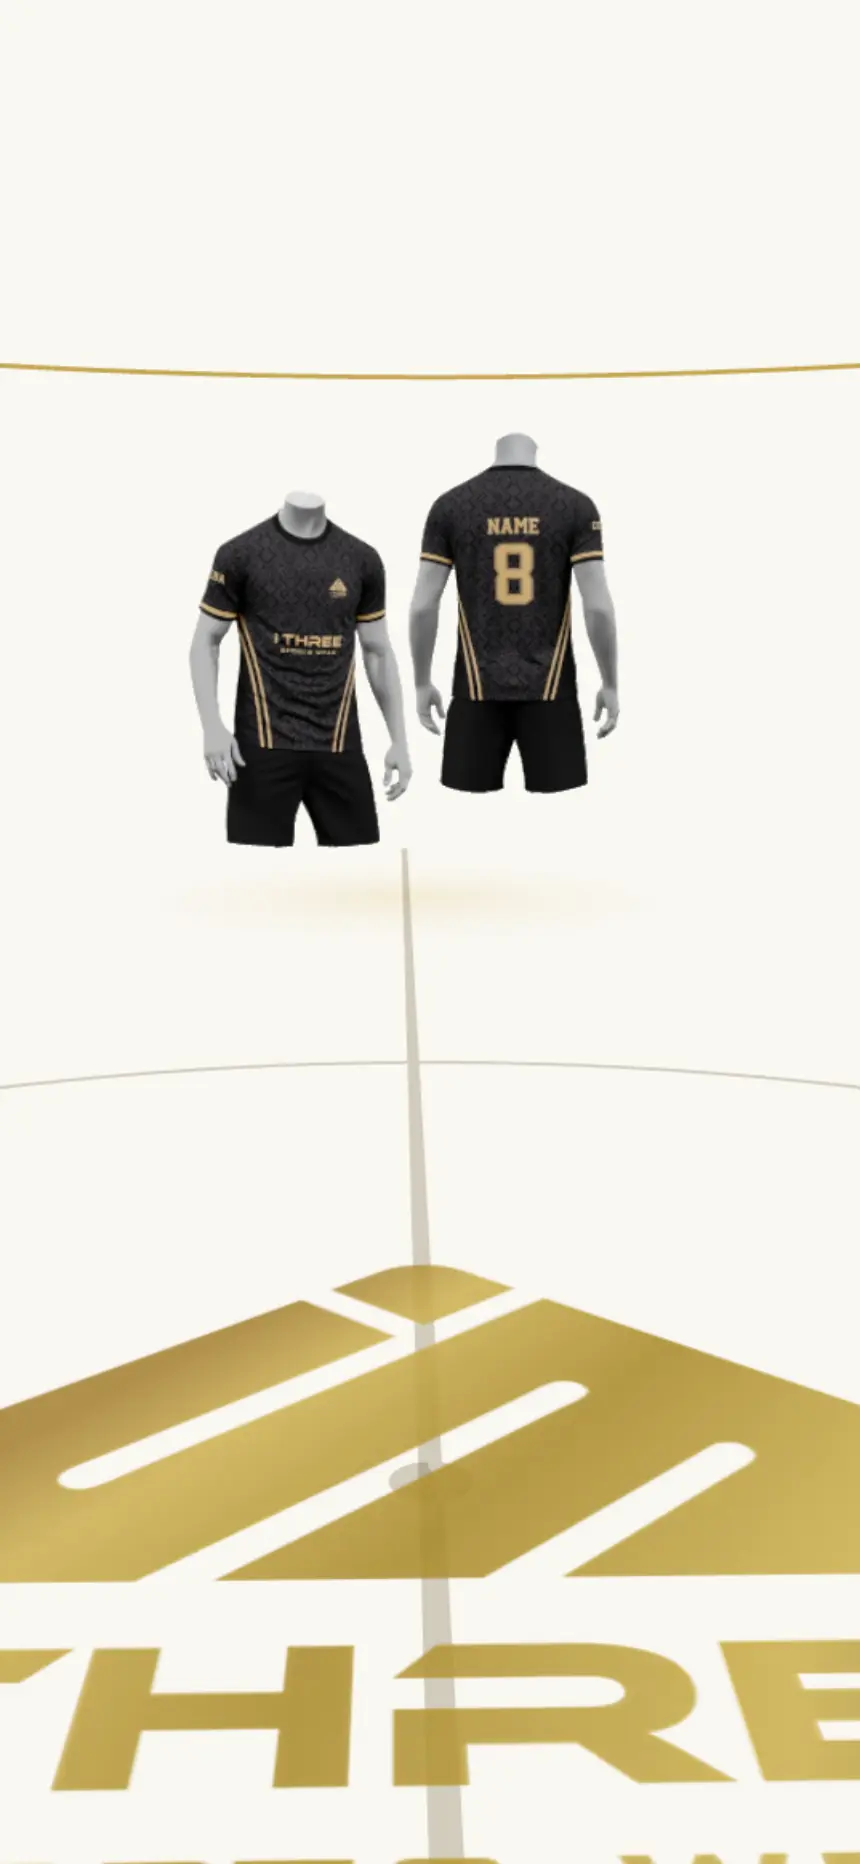
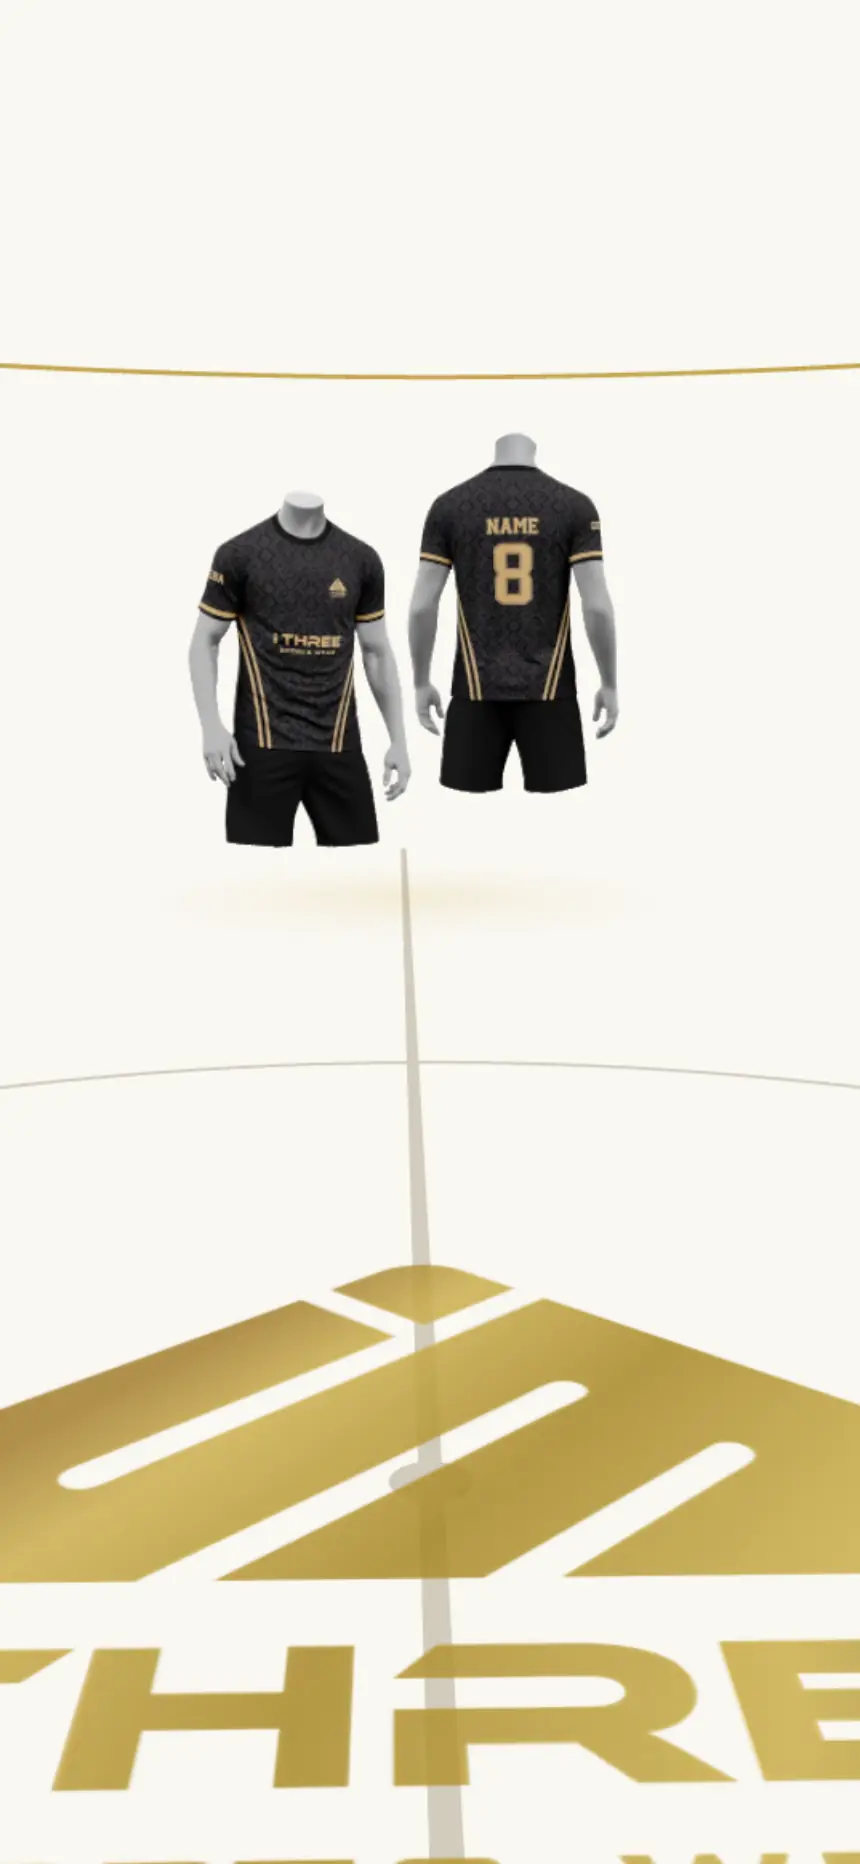
Separate theme buttons, brighter light hero, richer light CTA and story
- Header: separate moon and sun buttons; the active theme is filled gold.
  On phones under 390px the quote button reads QUOTE so everything fits.
- Light hero: fog only softens the far floor, so kit colours stay vivid; a
  short light fade at the foot replaces the dark-theme scrim, and the scroll
  dim is lighter. Light stand-in stills re-captured.
- Light Our Story: fanned kit cards that spread on scroll, an outlined gold
  11 and a warm glow.
- Light final CTA: two rows of kit cards gliding in opposite directions
  (pause on hover), on every screen size.

Claude-Session: https://claude.ai/code/session_01TzgDj8wnAxPH7NWvhhgYKc

diff --git a/i3sportswear/components/Identity.tsx b/i3sportswear/components/Identity.tsx
@@ -11,6 +11,7 @@ const beats = ["It’s colours.", "It’s a crest.", "It’s a number.", "It’s
 /**
  * 07: Team identity (Our story). A close-up frame from the master film,
  * slowly pushing in, while each line of the manifesto lights up in turn.
+ * Light theme: fanned kit cards and an outlined gold "11" replace the dark still.
  */
 export default function Identity() {
   const root = useRef<HTMLElement>(null);
@@ -28,6 +29,19 @@ export default function Identity() {
           "[data-identity-media]",
           { scale: 1.12 },
           { scale: 1, ease: "none", scrollTrigger: { trigger: root.current, start: "top bottom", end: "bottom top", scrub: true } },
+        );
+        // Light theme: the fanned kits spread and rise, the outline numeral drifts.
+        gsap.utils.toArray<HTMLElement>("[data-fan-kit]").forEach((kit, i) => {
+          gsap.fromTo(
+            kit,
+            { y: 70, x: (i - 1) * -24 },
+            { y: -10 * i, x: (i - 1) * 14, ease: "none", scrollTrigger: { trigger: root.current, start: "top bottom", end: "bottom 40%", scrub: true } },
+          );
+        });
+        gsap.fromTo(
+          "[data-identity-numeral]",
+          { yPercent: 12 },
+          { yPercent: -6, ease: "none", scrollTrigger: { trigger: root.current, start: "top bottom", end: "bottom top", scrub: true } },
         );
         gsap.utils.toArray<HTMLElement>("[data-beat]").forEach((beat) => {
           gsap.fromTo(
@@ -58,11 +72,19 @@ export default function Identity() {
           aria-hidden
           className="absolute inset-0 bg-[linear-gradient(to_right,var(--color-ink)_8%,color-mix(in_srgb,var(--color-ink)_75%,transparent)_45%,color-mix(in_srgb,var(--color-ink)_25%,transparent)_100%),linear-gradient(to_bottom,var(--color-ink),transparent_20%,transparent_80%,var(--color-ink))]"
         />
-        {/* Light theme: the film still is a dark studio, so show a light kit instead,
-            above the fade so it stays crisp. */}
-        <div className="absolute bottom-[7%] left-[var(--gutter)] hidden h-[34%] w-[40%] lg:light:block">
-          <Image src={jerseySrc("coral-teal")} alt="" fill sizes="42vw" className="object-contain object-left-bottom drop-shadow-[0_30px_30px_var(--product-shadow)]" />
-        </div>
+        {/* Light theme backdrop: a warm gold glow and an outlined "11" in place of
+            the dark film still. */}
+        <div
+          aria-hidden
+          className="absolute inset-0 hidden bg-[radial-gradient(55%_50%_at_18%_78%,color-mix(in_srgb,var(--color-gold)_14%,transparent),transparent_70%),radial-gradient(40%_45%_at_88%_20%,color-mix(in_srgb,var(--color-gold)_8%,transparent),transparent_70%)] light:block"
+        />
+        <span
+          aria-hidden
+          data-identity-numeral
+          className="pointer-events-none absolute -right-[3vw] -bottom-[8vw] hidden font-display text-[62vw] leading-none font-semibold tracking-[-0.06em] text-transparent opacity-50 select-none [-webkit-text-stroke:1.5px_var(--color-gold)] light:block lg:-bottom-[5vw] lg:text-[34vw]"
+        >
+          11
+        </span>
       </div>
 
       <div className="shell relative grid gap-16 py-32 lg:grid-cols-12 lg:py-48">
@@ -74,6 +96,9 @@ export default function Identity() {
               outer="js-hidden-line"
             />
           </h2>
+          <div className="hidden light:block">
+            <KitFan />
+          </div>
         </div>
         <ul className="flex flex-col gap-3 self-end lg:col-span-5 lg:col-start-8 lg:pt-[30vh]">
           {beats.map((b, i) => (
@@ -88,5 +113,32 @@ export default function Identity() {
         </ul>
       </div>
     </section>
+  );
+}
+
+// Three kits fanned like cards: one team's squad, three sports.
+const fan = [
+  { slug: "sky-brush", left: "0%", rotate: -7, z: 1 },
+  { slug: "coral-teal", left: "23%", rotate: 0, z: 3 },
+  { slug: "yellow-circuit", left: "46%", rotate: 6, z: 2 },
+];
+
+/** Light theme only: kit cards that drift apart as the section scrolls. */
+function KitFan() {
+  return (
+    <div aria-hidden className="relative mt-14 aspect-[2.15/1] w-full max-w-[680px] lg:mt-20">
+      {fan.map((k) => (
+        <div
+          key={k.slug}
+          data-fan-kit
+          className="absolute bottom-0 aspect-[5/4] w-[54%] will-change-transform"
+          style={{ left: k.left, zIndex: k.z, rotate: `${k.rotate}deg` }}
+        >
+          <div className="relative h-full w-full bg-[var(--stage)] shadow-[0_30px_60px_-24px_var(--product-shadow)] ring-1 ring-bone/[0.07]">
+            <Image src={jerseySrc(k.slug)} alt="" fill sizes="(min-width: 1024px) 18vw, 45vw" className="object-contain p-[7%]" />
+          </div>
+        </div>
+      ))}
+    </div>
   );
 }

diff --git a/i3sportswear/components/Closing.tsx b/i3sportswear/components/Closing.tsx
@@ -1,13 +1,16 @@
 "use client";
 
 import Image from "next/image";
-import { jerseySrc } from "@/lib/products";
+import { jerseySrc, jerseys } from "@/lib/products";
 import { useRef } from "react";
 import { Button, Lines, Logo, Mark } from "./ui";
 import { contactHref, nav, site } from "@/lib/site";
 import { MQ, gsap, useGSAP } from "@/lib/gsap";
 
-/** Final CTA. The jersey wall from the master film, held in deep shadow. */
+/**
+ * Final CTA. Dark: the jersey wall from the master film, held in deep shadow.
+ * Light: a moving wall of the kits themselves.
+ */
 export function FinalCta() {
   const root = useRef<HTMLElement>(null);
 
@@ -42,22 +45,23 @@ export function FinalCta() {
   const talk = contactHref("Hi iTHREE, I'd like to talk about a team kit.");
 
   return (
-    <section id="quote" ref={root} aria-labelledby="cta-title" className="relative flex min-h-[100svh] items-center overflow-hidden bg-ink">
+    <section id="quote" ref={root} aria-labelledby="cta-title" className="relative flex min-h-[100svh] flex-col justify-center overflow-hidden bg-ink">
       <div className="absolute inset-0">
         <div data-cta-media className="absolute inset-0 will-change-transform">
           <Image src="/images/stills/wall" alt="" fill sizes="100vw" className="object-cover object-[80%_50%] opacity-55 light:hidden" />
-          {/* Light theme: a light kit in place of the dark film still. */}
-          <div className="absolute inset-y-[14%] right-[4%] hidden w-full light:block lg:w-[52%]">
-            <Image src={jerseySrc("sky-brush")} alt="" fill sizes="(min-width: 1024px) 52vw, 100vw" className="object-contain object-right opacity-25 lg:opacity-100" />
-          </div>
         </div>
         <div
           aria-hidden
-          className="absolute inset-0 bg-[linear-gradient(to_right,var(--color-ink)_15%,color-mix(in_srgb,var(--color-ink)_60%,transparent)_55%,color-mix(in_srgb,var(--color-ink)_20%,transparent)),linear-gradient(to_bottom,var(--color-ink),transparent_25%,transparent_75%,var(--color-ink))]"
+          className="absolute inset-0 bg-[linear-gradient(to_right,var(--color-ink)_15%,color-mix(in_srgb,var(--color-ink)_60%,transparent)_55%,color-mix(in_srgb,var(--color-ink)_20%,transparent)),linear-gradient(to_bottom,var(--color-ink),transparent_25%,transparent_75%,var(--color-ink))] light:hidden"
+        />
+        {/* Light theme: a warm glow and a moving wall of kits in place of the dark film still. */}
+        <div
+          aria-hidden
+          className="absolute inset-0 hidden bg-[radial-gradient(50%_60%_at_12%_35%,color-mix(in_srgb,var(--color-gold)_14%,transparent),transparent_70%)] light:block"
         />
       </div>
 
-      <div className="shell relative py-32">
+      <div className="shell relative py-32 light:pb-12 lg:light:pb-16">
         <p className="eyebrow flex items-center gap-3 text-faint">
           <Mark /> Get a quote
         </p>
@@ -78,7 +82,45 @@ export function FinalCta() {
           </a>
         )}
       </div>
+
+      <div className="relative hidden w-full pb-24 light:block">
+        <KitRows />
+      </div>
     </section>
+  );
+}
+
+// Every clean cut-out kit, split into two runs for the moving wall.
+const wallKits = jerseys.filter((j) => !j.backdrop);
+const runs = [wallKits.filter((_, i) => i % 2 === 0), wallKits.filter((_, i) => i % 2 === 1)];
+
+function KitCard({ slug }: { slug: string }) {
+  return (
+    <div className="relative mr-4 aspect-[5/4] w-[44vw] max-w-[260px] shrink-0 bg-[var(--stage)] shadow-[0_24px_48px_-24px_var(--product-shadow)] ring-1 ring-bone/[0.07] lg:mr-5 lg:w-[clamp(200px,17vw,280px)] lg:max-w-none">
+      <Image src={jerseySrc(slug)} alt="" fill sizes="(min-width: 1024px) 17vw, 44vw" className="object-contain p-[7%]" />
+    </div>
+  );
+}
+
+/** Light theme: two rows of kits sliding in opposite directions (pause on hover). */
+function KitRows() {
+  return (
+    <div aria-hidden className="group flex flex-col gap-4 [mask-image:linear-gradient(to_right,transparent,#000_8%,#000_92%,transparent)] lg:gap-5">
+      {runs.map((run, r) => (
+        <div key={r} className="overflow-hidden">
+          {/* Two copies and a margin (not gap) per card, so -50% loops seamlessly. */}
+          <div
+            className={`flex w-max group-hover:[animation-play-state:paused] ${
+              r === 0 ? "animate-[marquee_48s_linear_infinite]" : "animate-[marquee_54s_linear_infinite_reverse]"
+            }`}
+          >
+            {[...run, ...run].map((j, i) => (
+              <KitCard key={`${j.slug}-${i}`} slug={j.slug} />
+            ))}
+          </div>
+        </div>
+      ))}
+    </div>
   );
 }
 

diff --git a/i3sportswear/components/Nav.tsx b/i3sportswear/components/Nav.tsx
@@ -99,7 +99,7 @@ export default function Nav() {
           <div className="relative z-10 flex items-center gap-2 sm:gap-3">
             <ThemeSwitch theme={theme} />
             <Button href="#quote" variant="outline" size="sm" className="px-3! xs:px-4! sm:px-5!">
-              Get a quote
+              <span className="max-[389px]:hidden">Get a&nbsp;</span>quote
             </Button>
             <button
               ref={menuButton}
@@ -176,30 +176,33 @@ export default function Nav() {
   );
 }
 
-/** Dark / light switch: both icons visible, a sliding thumb marks the active one. */
+/** Two separate theme buttons, moon for dark and sun for light; the active one is filled gold. */
 function ThemeSwitch({ theme }: { theme: "dark" | "light" }) {
-  const light = theme === "light";
+  const options = [
+    { value: "dark", label: "Dark theme", Icon: Moon },
+    { value: "light", label: "Light theme", Icon: Sun },
+  ] as const;
   return (
-    <button
-      type="button"
-      role="switch"
-      aria-checked={light}
-      aria-label="Light theme"
-      title={light ? "Switch to dark theme" : "Switch to light theme"}
-      onClick={() => setTheme(light ? "dark" : "light")}
-      className="group relative flex h-11 items-center"
-    >
-      <span className="relative flex h-8 w-[3.25rem] items-center justify-between rounded-full px-[6px] xs:w-[3.75rem] xs:px-[7px] ring-1 ring-bone/25 transition-colors group-hover:ring-bone/50">
-        <span
-          aria-hidden
-          className={`absolute top-1 left-1 h-6 w-6 rounded-full bg-gold-soft transition-transform duration-500 ease-[var(--ease-out-expo)] ${
-            light ? "translate-x-[1.25rem] xs:translate-x-[1.75rem]" : "translate-x-0"
-          }`}
-        />
-        <Moon className={`relative ${light ? "text-bone/55" : "text-ink"}`} />
-        <Sun className={`relative ${light ? "text-ink" : "text-bone/55"}`} />
-      </span>
-    </button>
+    <div role="group" aria-label="Theme" className="flex items-center gap-1 sm:gap-1.5">
+      {options.map(({ value, label, Icon }) => {
+        const on = theme === value;
+        return (
+          <button
+            key={value}
+            type="button"
+            aria-pressed={on}
+            aria-label={label}
+            title={label}
+            onClick={() => !on && setTheme(value)}
+            className={`flex h-8 w-8 items-center justify-center rounded-full transition-colors duration-300 sm:h-9 sm:w-9 ${
+              on ? "bg-gold-soft text-ink" : "text-bone/80 ring-1 ring-bone/35 ring-inset hover:text-bone hover:ring-bone/60"
+            }`}
+          >
+            <Icon />
+          </button>
+        );
+      })}
+    </div>
   );
 }
 

diff --git a/i3sportswear/components/Hero.tsx b/i3sportswear/components/Hero.tsx
@@ -108,9 +108,14 @@ export default function Hero() {
           {/* Legibility: weight the frame toward the lower-left text field only. */}
           <div
             aria-hidden
-            className="pointer-events-none absolute inset-0 bg-[linear-gradient(to_top,var(--color-ink)_2%,color-mix(in_srgb,var(--color-ink)_45%,transparent)_26%,transparent_50%)] lg:bg-[linear-gradient(to_top,var(--color-ink)_2%,color-mix(in_srgb,var(--color-ink)_55%,transparent)_30%,transparent_62%),linear-gradient(to_right,color-mix(in_srgb,var(--color-ink)_70%,transparent),transparent_55%)]"
+            className="pointer-events-none absolute inset-0 bg-[linear-gradient(to_top,var(--color-ink)_2%,color-mix(in_srgb,var(--color-ink)_45%,transparent)_26%,transparent_50%)] lg:bg-[linear-gradient(to_top,var(--color-ink)_2%,color-mix(in_srgb,var(--color-ink)_55%,transparent)_30%,transparent_62%),linear-gradient(to_right,color-mix(in_srgb,var(--color-ink)_70%,transparent),transparent_55%)] light:hidden"
           />
-          <div data-hero-dim aria-hidden className="pointer-events-none absolute inset-0 bg-ink opacity-0" />
+          {/* Light theme: dark type reads on the bright room, so only a short fade at the foot. */}
+          <div
+            aria-hidden
+            className="pointer-events-none absolute inset-0 hidden bg-[linear-gradient(to_top,var(--color-ink)_0%,color-mix(in_srgb,var(--color-ink)_30%,transparent)_16%,transparent_34%)] light:block lg:bg-[linear-gradient(to_top,var(--color-ink)_0%,color-mix(in_srgb,var(--color-ink)_30%,transparent)_16%,transparent_34%),linear-gradient(to_right,color-mix(in_srgb,var(--color-ink)_45%,transparent),transparent_42%)]"
+          />
+          <div data-hero-dim aria-hidden className="pointer-events-none absolute inset-0 bg-ink opacity-0 light:bg-ink/55" />
 
           <div className="shell absolute inset-x-0 bottom-0 pb-20 lg:pb-24">
             <div className="grid items-end gap-10 lg:grid-cols-12">

diff --git a/i3sportswear/components/hero/HeroWorld.tsx b/i3sportswear/components/hero/HeroWorld.tsx
@@ -249,7 +249,10 @@ function Atmosphere({ theme, lite }: { theme: Theme; lite: boolean }) {
     const bg = theme === "light" ? LIGHT_ROOM : DARK_ROOM;
     scene.background = new THREE.Color(bg);
     // Phones see the ring from further back, so push the fog out to keep the kits bright.
-    scene.fog = lite ? new THREE.Fog(bg, 10, 26) : new THREE.Fog(bg, 6, 19);
+    // Light fog washes kit colours toward white, so in the light room it only
+    // softens the far floor edge.
+    scene.fog =
+      theme === "light" ? new THREE.Fog(bg, 16, 40) : lite ? new THREE.Fog(bg, 10, 26) : new THREE.Fog(bg, 6, 19);
     invalidate();
   }, [scene, theme, lite, invalidate]);
   return null;

diff --git a/i3sportswear/app/globals.css b/i3sportswear/app/globals.css
@@ -222,7 +222,6 @@ body {
     transform: translate3d(-50%, 0, 0);
   }
 }
-
 /* Lines revealed by scroll start hidden only once JS is known to run. */
 @media (prefers-reduced-motion: no-preference) {
   .js .js-hidden-line {
